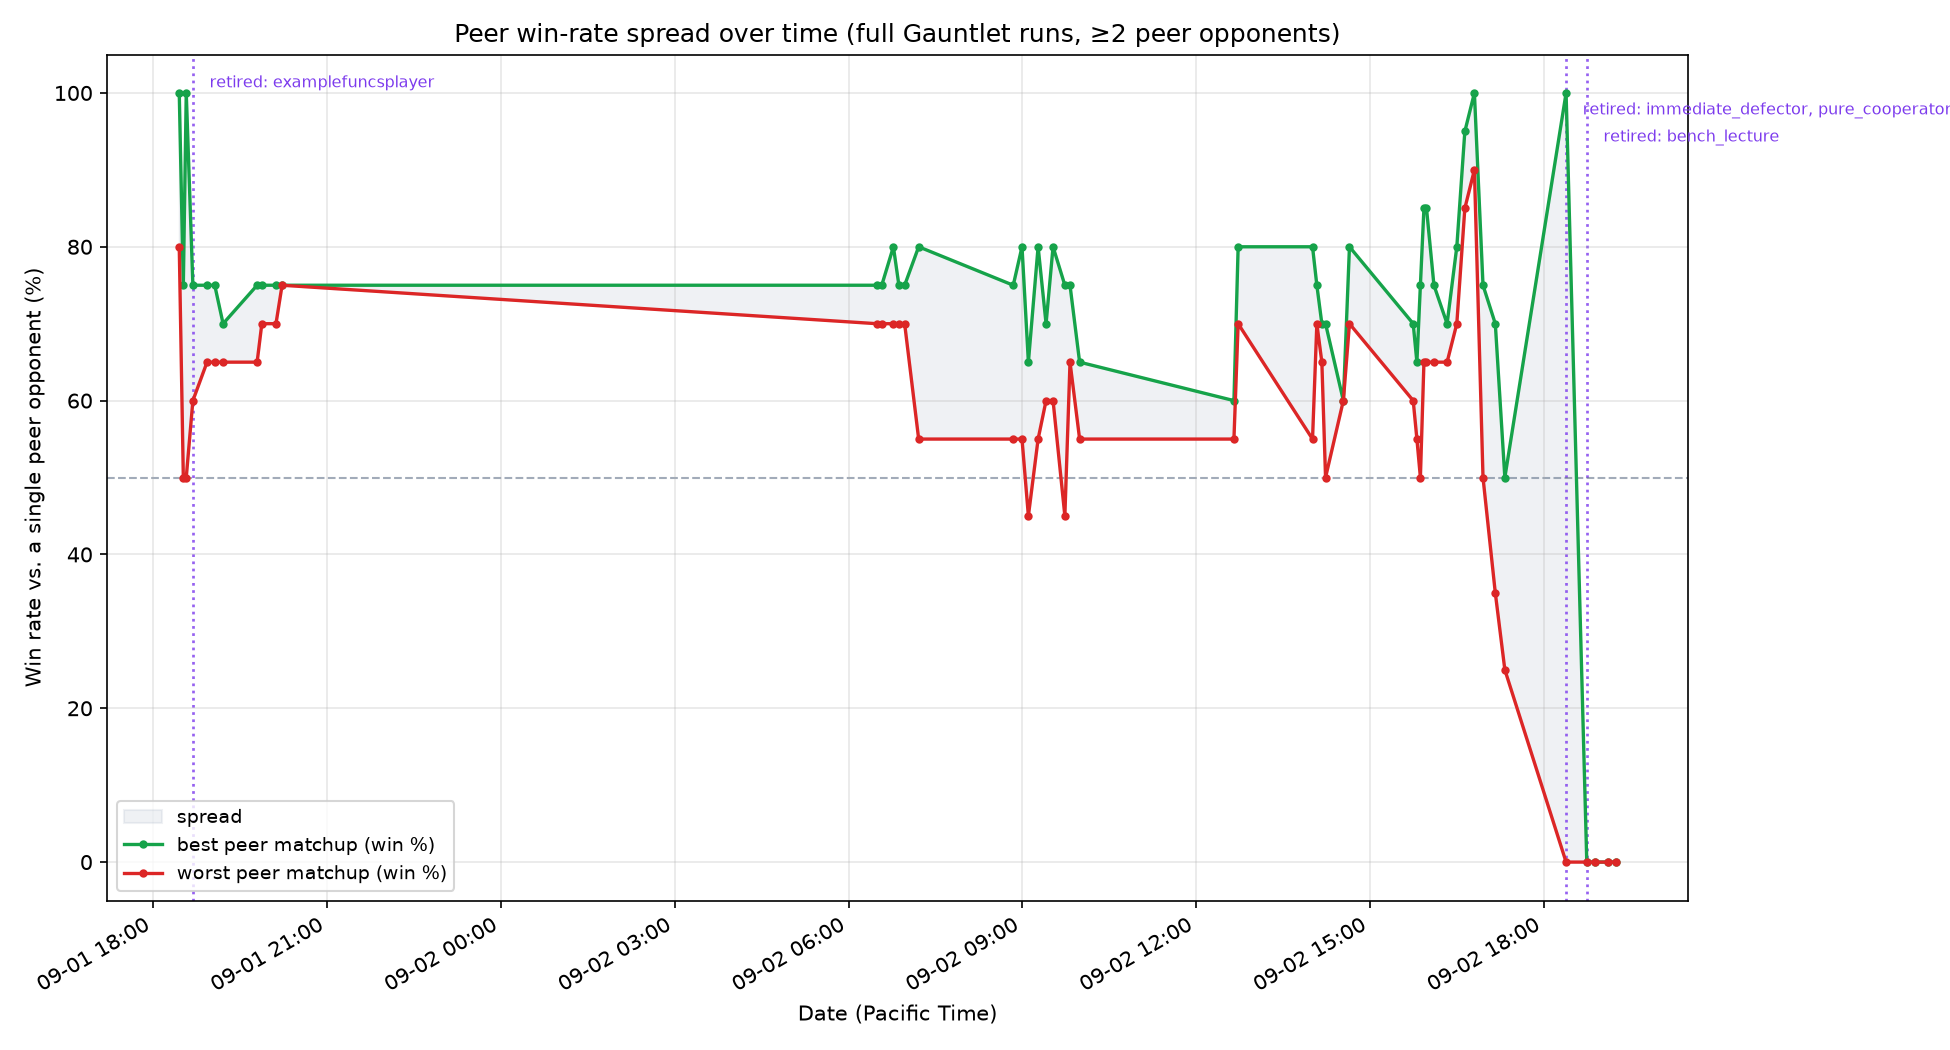
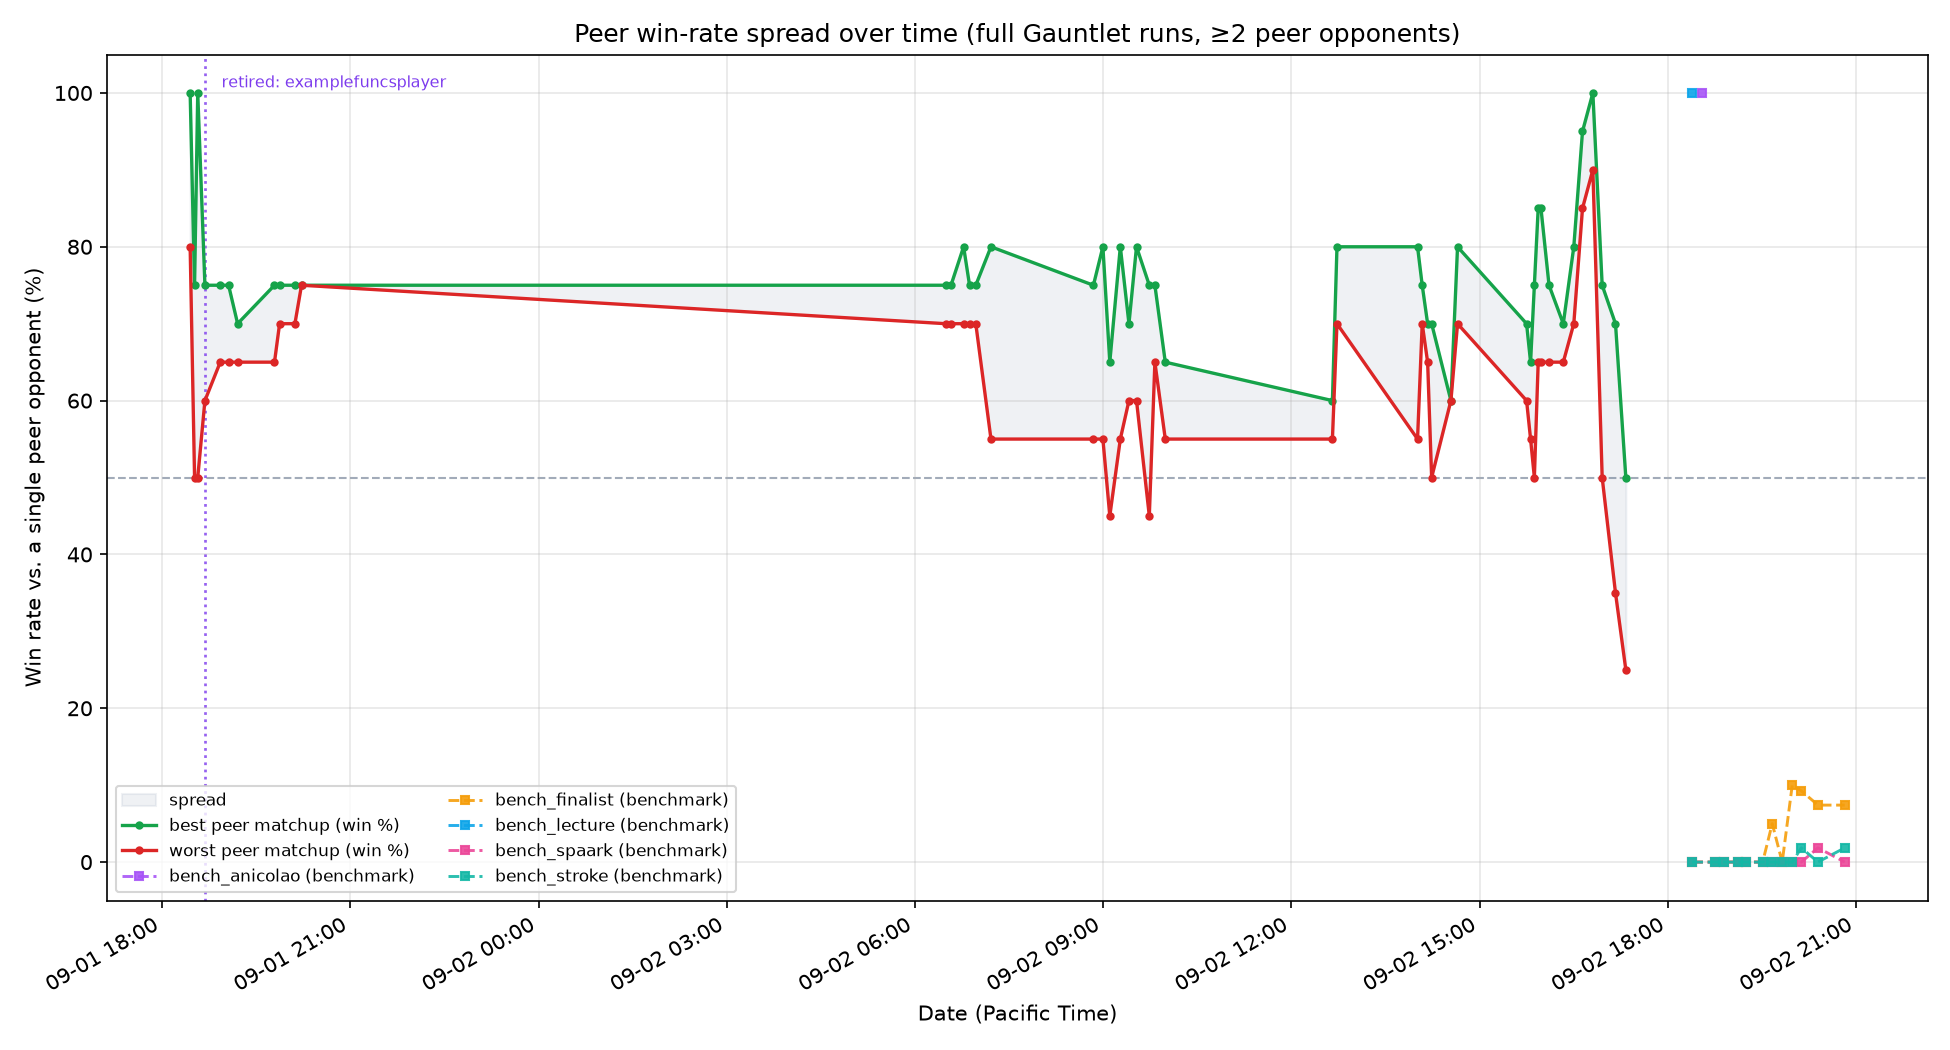
charts: exclude benchmark bots from peer win-rate spread band
Benchmark bots (bench_lecture, bench_anicolao, bench_finalist,
bench_spaark, bench_stroke) were being counted as peer opponents, so the
'worst peer matchup' line was pinned near 0% by tournament-entry results
and the band no longer showed how the actual peer roster was faring.

Follows battlecode22-vibe's treatment: populate BENCHMARK_BOTS (already
skipped inside full_runs()), gate tallies on MIN_BENCHMARK_GAMES=15, and
draw each benchmark as its own dashed line on the same axes. BC22 plotted
losing game length; win rate is used here since wins are the scarce
quantity against these opponents.

Claude-Session: https://claude.ai/code/session_01Sgao6EtbbgQ6mM5ZhH5FGP

diff --git a/tools/plot_alt_metrics.py b/tools/plot_alt_metrics.py
@@ -10,10 +10,16 @@ rate in that run, over time. Unlike the cumulative-iterations chart, this
 shows dispersion -- is progress broad (both ends rising together) or
 lopsided (a growing gap between the easiest and hardest peer matchup)?
 
-BC22's version of this script also plotted average LOSING game length
-against benchmark opponents over time -- omitted here because this project
-has no benchmark opponents yet (nothing has beaten `bot` even once this
-session; see TRAINING_LOG.md). Add that chart back once one exists.
+Benchmark bots (BENCHMARK.md) are deliberately kept OUT of that spread
+band and drawn as their own dashed lines on the same axes, as BC22 did.
+They are external tournament entries, not roster peers: folding them in
+would pin the "worst matchup" line to ~0% indefinitely and hide every bit
+of peer movement, while also making the band answer two questions at once.
+As separate lines they stay directly comparable against the same y-axis.
+
+BC22 charted average LOSING game length against its benchmarks; here the
+line is win rate instead, because against these opponents wins are still
+the scarce quantity (0-10%), so they carry the signal.
 
 MIN_PEERS is much lower than BC22's (14, reflecting that project's
 128-iteration, many-vendored-bot roster) -- this project has run at most 3
@@ -40,10 +46,21 @@ UTC = ZoneInfo("UTC")
 
 MIN_PEERS = 2
 
-# No benchmark opponents exist yet (see module docstring) -- kept as an
-# empty tuple, not deleted, so the retirement-event/benchmark logic below
-# stays structurally ready for when one does.
-BENCHMARK_BOTS = ()
+# External benchmark bots (see BENCHMARK.md). These are real MIT
+# Battlecode 2026 tournament entries, not peers -- they are excluded from
+# the peer spread band and drawn as their own lines instead, matching
+# battlecode22-vibe's treatment. Mixing them into the spread would be
+# misleading twice over: the band is meant to show how the *peer roster*
+# is faring, and a 0-5% benchmark result would pin the "worst matchup"
+# line to the floor forever, hiding all peer movement.
+BENCHMARK_BOTS = (
+    "bench_lecture", "bench_anicolao",
+    "bench_finalist", "bench_spaark", "bench_stroke",
+)
+
+# A benchmark tally is only plotted once it has at least this many games,
+# so a partial run doesn't render as a misleading spike.
+MIN_BENCHMARK_GAMES = 15
 
 
 def run_timestamp(rundir: Path):
@@ -108,6 +125,33 @@ def peer_spread_series(runs):
     return xs, maxs, mins
 
 
+def benchmark_series():
+    """opponent -> [(timestamp, win_pct), ...] for every run with a full
+    tally against that benchmark bot. Win rate rather than BC22's losing
+    game length: against these opponents we are still mostly at 0-5%, so
+    wins are the scarce, informative quantity."""
+    data = defaultdict(list)
+    for rundir in sorted(Path(REPO_ROOT / "gauntlet").glob("*/")):
+        p = rundir / "results.csv"
+        if not p.exists():
+            continue
+        tally = defaultdict(lambda: [0, 0])
+        for row in load_results(p):
+            opp = row["opponent"]
+            if opp not in BENCHMARK_BOTS:
+                continue
+            tally[opp][1] += 1
+            if row["bot_result"] == "win":
+                tally[opp][0] += 1
+        ts = run_timestamp(rundir)
+        for opp, (w, t) in tally.items():
+            if t >= MIN_BENCHMARK_GAMES:
+                data[opp].append((ts, 100.0 * w / t))
+    for opp in data:
+        data[opp].sort()
+    return data
+
+
 def retirement_events(runs):
     """A peer present in one full-Gauntlet run and absent from the next is
     inferred as retired somewhere in between (see TRAINING_ALGORITHM.md's
@@ -156,6 +200,17 @@ def main():
     print(f"marked {len(events)} retirement event(s): "
           + "; ".join(f"{ts:%Y-%m-%d %H:%M} -> {names}" for ts, names in events))
 
+    # Benchmark bots as their own lines -- excluded from the spread band
+    # above (see BENCHMARK_BOTS) so they cannot distort the peer picture.
+    bcolors = {"bench_lecture": "#0ea5e9", "bench_anicolao": "#a855f7",
+               "bench_finalist": "#f59e0b", "bench_spaark": "#ec4899",
+               "bench_stroke": "#14b8a6"}
+    for opp, pts in sorted(benchmark_series().items()):
+        bxs = [q[0] for q in pts]
+        bys = [q[1] for q in pts]
+        ax.plot(bxs, bys, color=bcolors.get(opp, "#333"), marker="s", markersize=4,
+                linewidth=1.4, linestyle="--", alpha=0.9, label=f"{opp} (benchmark)")
+
     ax.axhline(50, color="#64748b", linestyle="--", linewidth=1, alpha=0.6, zorder=1)
 
     ax.set_title(f"Peer win-rate spread over time (full Gauntlet runs, ≥{MIN_PEERS} peer opponents)")
@@ -165,7 +220,7 @@ def main():
     ax.grid(True, alpha=0.3)
     ax.xaxis.set_major_formatter(mdates.DateFormatter("%m-%d %H:%M", tz=PACIFIC))
     fig.autofmt_xdate(rotation=30)
-    ax.legend(loc="lower left", fontsize=9)
+    ax.legend(loc="lower left", fontsize=8, ncol=2)
     fig.tight_layout()
     out1 = out_dir / "peer_win_spread.png"
     fig.savefig(out1, dpi=150)
